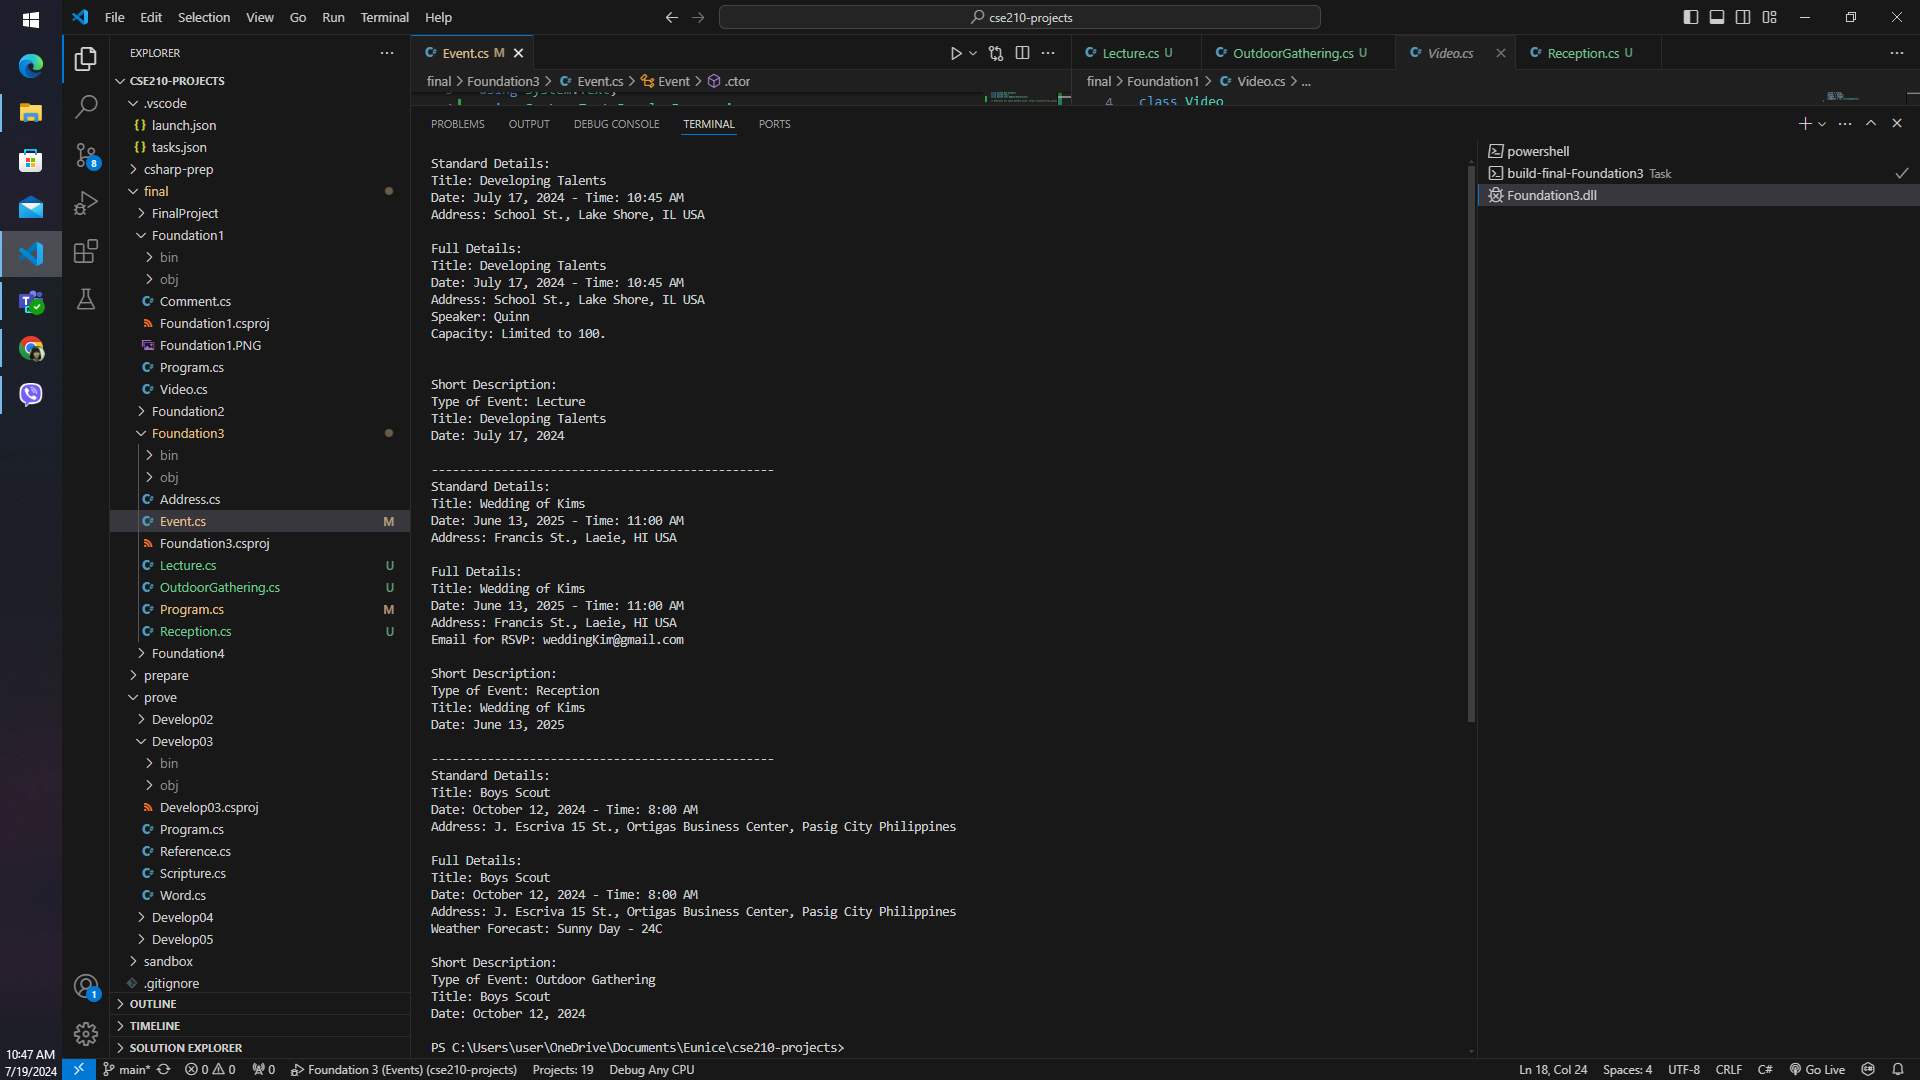
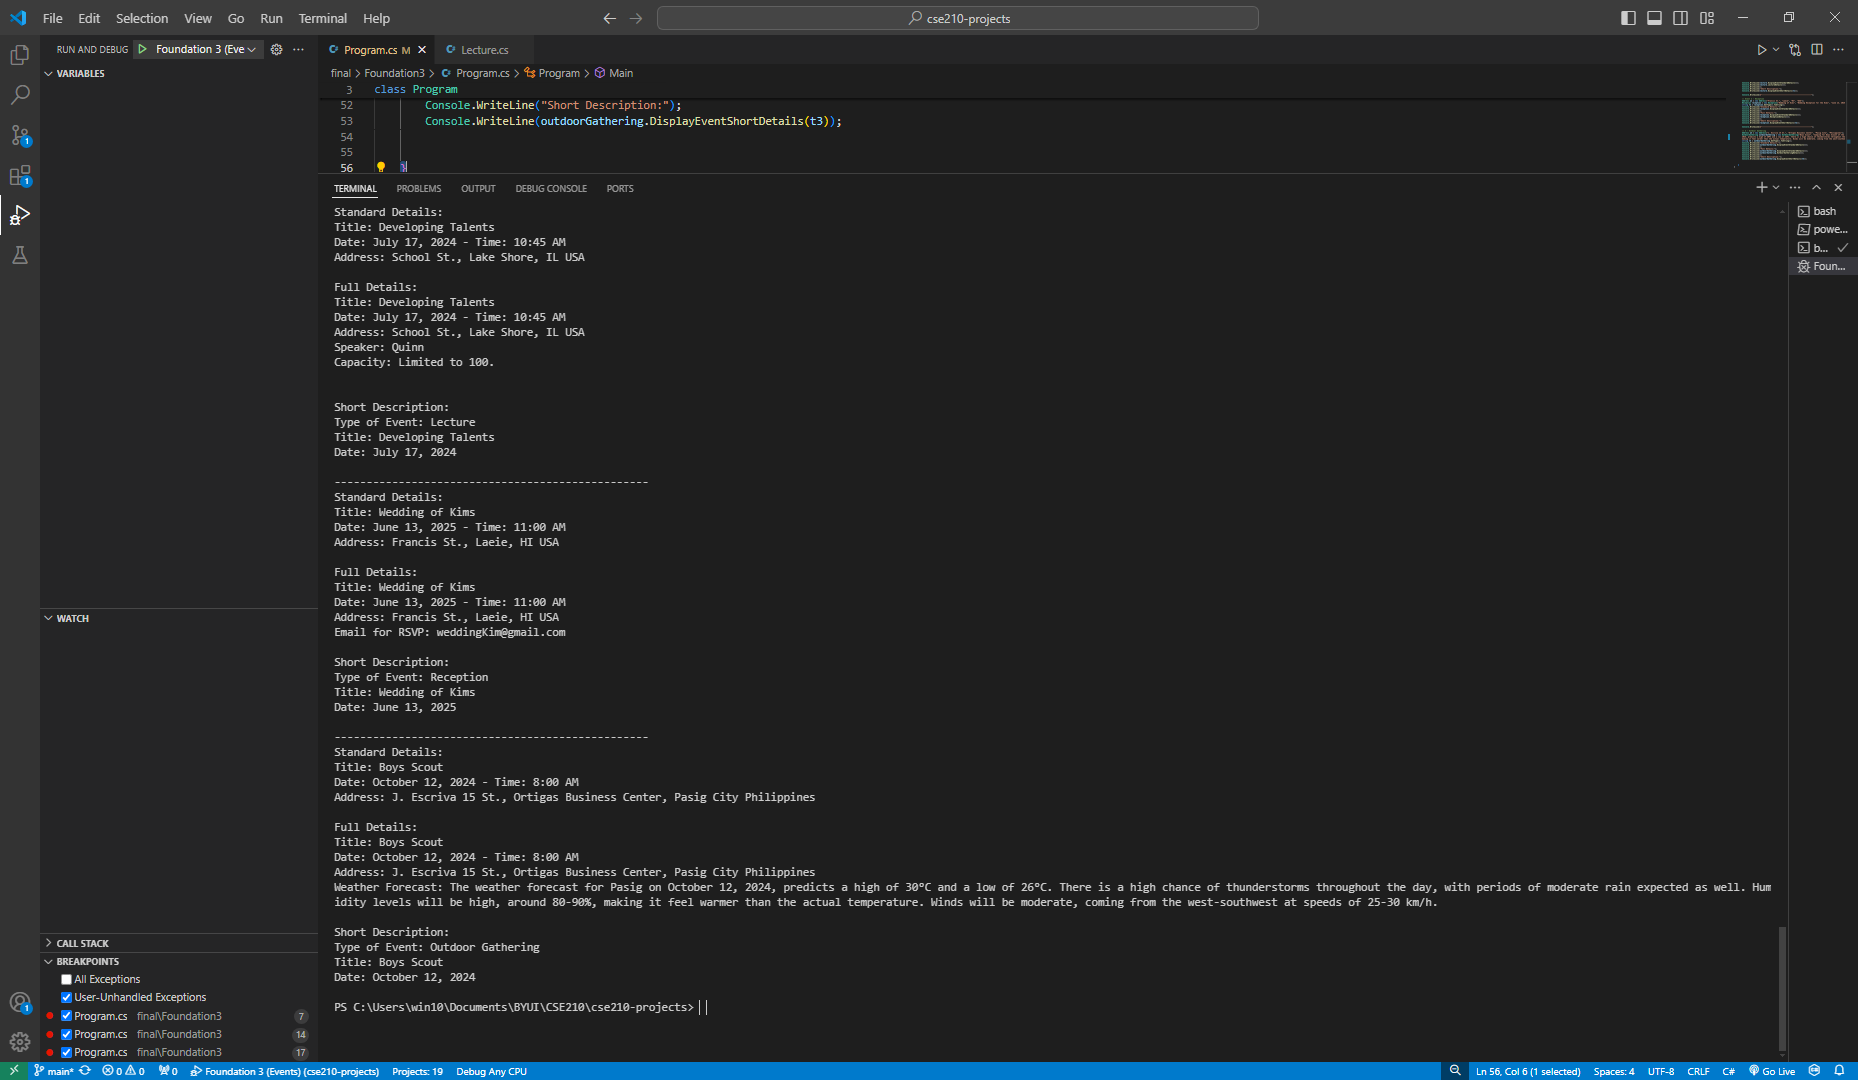
Update statement for weather forecast and screenshot

diff --git a/final/Foundation3/Program.cs b/final/Foundation3/Program.cs
@@ -40,7 +40,7 @@ class Program
 
         // 3 - Outdoor Gathering
         Address a3 = new Address("J. Escriva 15 St.", "Ortigas Business Center", "Pasig City", "Philippines");
-        OutdoorGathering outdoorGathering = new OutdoorGathering("Boys Scout", "Camping for Boys Scount of the Philippines", "October 12, 2024", "8:00 AM", a3, "Sunny Day - 24C");
+        OutdoorGathering outdoorGathering = new OutdoorGathering("Boys Scout", "Camping for Boys Scount of the Philippines", "October 12, 2024", "8:00 AM", a3, "The weather forecast for Pasig on October 12, 2024, predicts a high of 30°C and a low of 26°C. There is a high chance of thunderstorms throughout the day, with periods of moderate rain expected as well. Humidity levels will be high, around 80-90%, making it feel warmer than the actual temperature. Winds will be moderate, coming from the west-southwest at speeds of 25-30 km/h.");
         string t3 = outdoorGathering.GetType().ToString();
         Console.WriteLine("Standard Details:");
         Console.WriteLine(outdoorGathering.DisplayEventStandardDetails());
